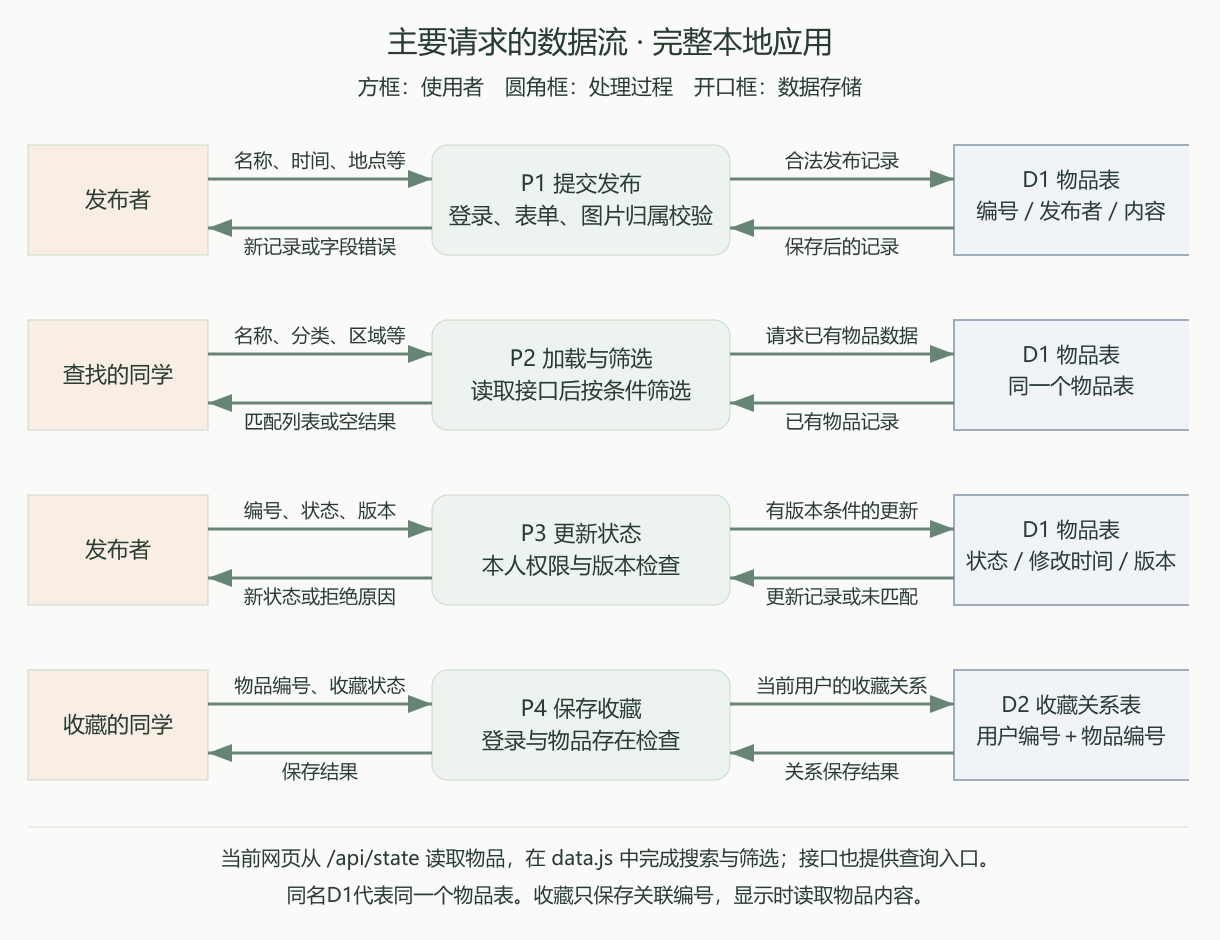
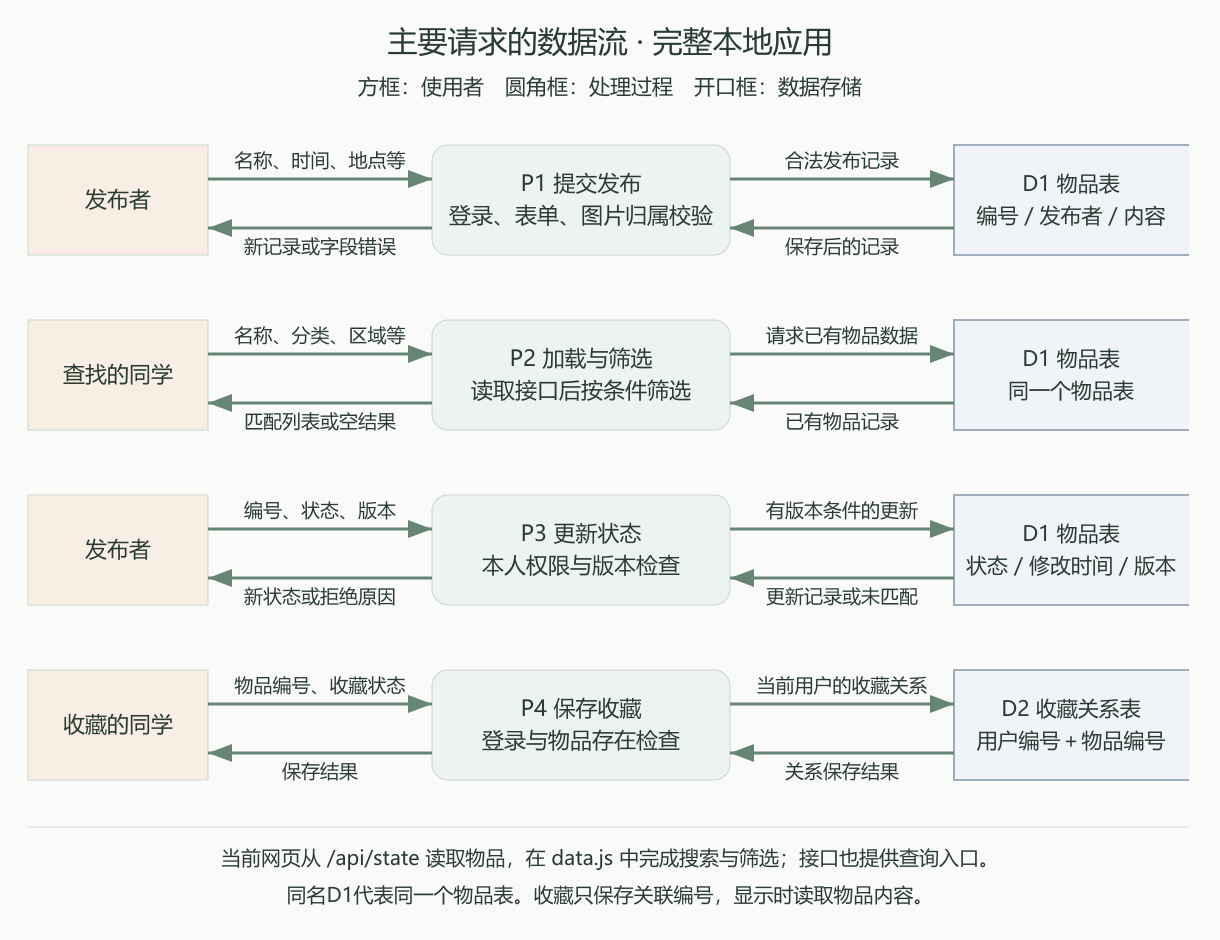
docs: explain prototype development and full application data flows

diff --git a/docs/2026-10-07-implementation-blog.md b/docs/2026-10-07-implementation-blog.md
@@ -76,17 +76,50 @@
 
 #### 从原型到页面
 
-我们保留了原型里的主要页面，把它们接成可以操作的流程。首页负责集中展示和搜索；发布页负责收集信息；详情页负责展示完整内容和联系方式；“我的”负责管理本人发布及收藏。
+**第一步：确定每条信息要保存什么。** 原型中有物品名称、图片、地点和时间，开发时需要先把这些内容变成数据字段。每条发布都有独立编号和发布者编号，类型分为寻物与招领，进度分为进行中与已完成。首页、详情、我的发布和收藏都根据同一条记录生成，避免几个页面各存一份内容，修改后互相对不上。
 
-实际做出来以后，页面又经过了几轮调整。首页最初提示文字较多，公告和卡片也偏大，后来缩短了卡片，把外露的筛选收为“寻物、招领、收藏”，其余放进漏斗按钮。丢失和拾取的时间放在卡片上，发布时间放在详情和“我的发布”里。这样找东西时先看到的是事情发生的时间。
+这里也调整了原型中的表达。丢失或拾取时间保存为事件时间，发布时间和修改时间另外记录，筛选按事件日期判断。寻物地点允许多选可能区域，并注明“模糊范围”；补充输入改为“最有可能的地点”。招领仍选择一个拾取区域，避免把不确定的丢失范围写成确定的拾取位置。
 
-界面采用暖棕色表示寻物、浅绿色表示招领，已完成的信息用灰蓝色区分，同时保留文字状态。底部导航在各个页面都可以使用。收藏、弹窗和按钮增加了点击反馈，减少操作后没有反应的感觉。
+**第二步：接通页面、数据和按钮。** `index.html`提供顶部栏、主内容区、底部导航和弹窗容器。`app.js`读取地址中的`#home`、`#detail/编号`等路径，确定当前页面，再由`views.js`生成界面。打开详情时按编号查找物品，进入编辑时回填原记录，“我的”按当前用户编号取本人发布。找不到记录时显示信息不存在，不继续渲染空数据。
+
+页面上的按钮使用`data-action`说明操作，交互统一交给`app.js`处理。业务判断则放在`data.js`，例如谁能修改、怎样筛选、完成后显示什么文字。底部导航放在主内容区之外，切换或重新渲染页面时仍然保留。
 
 <img src="blog-images/2026-10-07/01-overview.png" alt="首页、发布与我的页面" width="760">
 
-发布表单较长，下面按填写顺序分成三段：先选类型和分类，再写地点与时间，最后补联系方式、图片和描述。
+**第三步：让发布和修改真正保存下来。** 点击提交后先读取表单，对必填项、文字长度、分类、区域和日期进行校验。只有空格的名称也算未填写。出错时保留已经输入的内容，在字段旁说明原因，并将焦点移到第一个错误位置。通过校验后暂时禁用提交按钮，避免一次操作反复提交。
+
+最初的本地版本把记录保存进`localStorage`，保存成功后才跳到成功页。接入后端以后，如果选择了图片，先上传图片并取得地址，再提交发布信息；服务器再次校验，并根据登录会话填写发布者编号。数据库写入成功、接口返回新记录后，前端重新读取状态，再进入成功页。连接或保存失败时显示错误，保留表单供用户修改或重试。
+
+编辑沿用同一份表单，带上原记录版本提交。名称和地点可以修改，发布者、发布时间和原类型保留。完成、取消完成、删除各有确认弹窗，后端再次检查归属，避免只有前端隐藏按钮却仍能修改他人的信息。
+
+下面按填写顺序展示发布表单：先选类型和分类，再写地点与时间，最后补联系方式、图片和描述。
 
 <img src="blog-images/2026-10-07/03-publish.png" alt="发布表单的三个区域" width="760">
+
+**第四步：从一个浏览器的体验补到多账号应用。** 单独双击HTML适合验收页面，但不同用户无法共享浏览器中的记录。后端版本增加用户、会话、物品、收藏、图片归属和公告等数据库表，网页通过`api.js`发出请求。密码经过加盐哈希保存，登录后由会话确定用户；游客可以浏览，发布、收藏和查看联系方式需要登录。
+
+用户修改昵称或头像后，历史发布通过用户编号读取最新资料。公开主页根据该用户的发布计算总数、进行中和已完成数量，个人常用联系方式及收藏不公开。收藏保存用户与物品的对应关系，图片文件另存到上传目录，页面中的发布记录只保留图片地址。
+
+前端和后端共用`data.js`中的校验、筛选及状态规则。页面切换到首页、我的、详情等主要入口时重新取数据，窗口重新获得焦点时也会更新相关页面。当前没有实时推送，正在浏览的另一个页面不会立即收到状态变化。
+
+**第五步：根据实际操作反馈修改界面。** 首页最初提示较多，公告和卡片偏大，后来缩短了卡片，把外露筛选收为“寻物、招领、收藏”，其余放进漏斗按钮。展开筛选中的选择先保存在草稿里，点“应用筛选”才生效；应用后保持展开，内容可以滚动。重新显示结果时尽量保留筛选控件和滚动位置，减少跳动。
+
+卡片把名称、事件时间和地点放在更容易看到的位置，发布时间留在详情和我的发布中。寻物、招领和已完成使用不同底色，并保留文字状态。收藏成功后再改变爱心和边框，动画结束后清理临时效果；弹窗和按钮也增加轻量反馈。上传区域调整后出现过底栏消失，最终通过测量页面宽度找到隐藏控件撑宽页面的问题，具体修复放在第九节。
+
+**第六步：检查保存结果，而不只检查按钮能点。** 业务测试检查字段校验、筛选和状态变化；接口测试创建两个账号，检查权限、收藏隔离、旧版本提交和重启后数据保留；Chrome测试走带图片发布、另一账号查看、资料修改、完成及取消、编辑和删除。这样可以核对页面上的操作是否真正改变了保存的数据。测试方法和结果放在第七节。
+
+#### 当前完成到什么程度
+
+按本次本地交付的范围，核心流程和主要配套功能已经可以运行。这里列出对应能力和边界，作为验收依据：
+
+| 部分 | 已实现 | 当前边界 |
+| --- | --- | --- |
+| 失物招领 | 发布、查找、详情、联系方式、编辑、完成、取消完成和删除 | 双方在应用外联系，由发布者确认找回或归还 |
+| 用户与数据 | 注册登录、恢复码找回、资料修改、多账号权限、SQLite和图片保存 | 普通账号不等于学校身份认证 |
+| 收藏与公告 | 个人收藏、急寻申请、管理员审核、到期及完成后停止展示 | 需要管理员实际审核，预置内容用于演示流程 |
+| 交付与验证 | 静态HTML入口、本地后端入口、自动测试、管理员和手动备份脚本 | 没有公网部署，没有进行长期运营和大规模并发验证 |
+
+因此，当前版本可以作为可用的本地MVP交付。持续面向全校运行还需要真实使用反馈、更多数据量下的查询验证，以及备份恢复和旧图片清理等运行维护工作。当前首页从接口读取物品集合后在前端筛选，后端虽有分页查询接口，网页尚未接入分页；这一点在数据量增加后需要继续调整。
 
 ### 4.2 程序流程图与数据流图（10分）
 
@@ -107,11 +140,11 @@
 | 完成 | 发布者在“我的发布”确认 | 重新加载后显示已找到或已归还，卡片变为完成配色 |
 | 取消完成 | 发布者在同一位置再次确认 | 恢复寻找中或待认领，原内容保留 |
 
-这里把线下联系与系统状态更新分开：联系双方确认找回以后，仍需要发布者主动标记完成。列表没有做实时推送，因此其他页面需要重新加载才能读到最新状态。
+这里把线下联系与系统状态更新分开：联系双方确认找回以后，仍需要发布者主动标记完成。网页在切换主要页面或窗口重新获得焦点时会重新读取数据；列表没有实时推送，其他正在打开的页面需要再次取数据才能看到新状态。
 
 <img src="blog-images/2026-10-07/04-status.png" alt="我的发布、已完成筛选与取消归还确认" width="760">
 
-#### 数据流与存储
+#### 运行结构与数据存储
 
 前端使用HTML、CSS和JavaScript，后端使用Fastify，数据保存到SQLite，图片保存为本地文件。页面渲染、业务规则和接口访问分开写，修改界面时不需要把数据库操作也塞进页面代码。
 
@@ -124,11 +157,27 @@
 
 两种方式的数据分开保存。直接打开HTML时的数据不会自动导入数据库。首次启动后端会写入七条物品信息、三条公告和演示账号，方便打开后就能查看和操作；已有数据不会在每次重启时重新覆盖。
 
-下面再把完整本地应用的主要请求展开。箭头上写的是传递的数据，数据库中的记录则用物品编号和用户编号关联。
+上图说明两种运行方式及数据保存位置。下面的数据流图进一步展开“谁提交什么、系统怎样处理、读写哪里、返回什么”。业务读写和账号、资料、图片、公告两部分分图展示，避免所有箭头挤在一张图里。
+
+#### 发布、查询、状态和收藏的数据流
 
 当前网页先从`/api/state`取得物品，再在前端按名称、区域、分类和事件日期筛选；后端另有`/api/items`查询接口。图中的搜索过程包含加载与筛选两步，搜索条件不会修改原来的发布记录。
 
 <img src="blog-images/2026-10-07/request-data-flow.png" alt="发布、搜索、状态更新与收藏的数据流" width="760">
+
+编辑使用同样的归属和版本检查。删除发布后，数据库按关联编号清除收藏、公告和急寻申请。收藏只保存关系，展示时仍读取物品最新内容。
+
+#### 账号、资料、图片和公告的数据流
+
+<img src="blog-images/2026-10-07/support-data-flow.png" alt="账号会话、资料主页、图片上传和公告审核的数据流" width="760">
+
+账号流程先校验输入，再读写用户和会话。注册保存密码哈希，登录成功返回当前用户与会话；后续写操作继续检查会话和权限。资料修改写入用户表，公开主页读取允许展示的资料，并按发布者编号读取物品计算数量，收藏数不作为完成数。
+
+图片先经过内容解码、大小检查和WebP转换，再保存文件及归属记录，返回地址供发布或头像引用。图片上传与物品发布是两次请求，尚未做成一个事务：上传成功后如果发布失败，图片可能保留在目录中，旧图也暂时保留。这是后续需要增加清理机制的地方。
+
+急寻申请与正式公告分开保存。用户只能为本人进行中的寻物申请，管理员审核后写入公告并移除申请，批准这两步放在同一事务内。首页读取未到期且仍在寻找中的公告；完成或删除后停止展示。管理员可以撤下公告、驳回申请或删除内容。
+
+#### 数据之间怎样关联
 
 | 数据 | 关键字段与用途 |
 | --- | --- |
@@ -137,6 +186,17 @@
 | 修改记录 | `createdAt`保留发布时间，`updatedAt`记录修改；`version`检查是否拿旧信息提交 |
 | 收藏关系 | 用户编号与物品编号组成关系；展示时读取物品最新内容 |
 | 图片 | 发布记录保存图片地址，实际文件放在上传目录；上传和引用都检查归属 |
+
+| 数据表 | 保存内容 | 与其他数据的联系 |
+| --- | --- | --- |
+| `users`、`sessions` | 账号资料、密码及恢复码摘要、偏好、会话 | 会话关联用户；发布、收藏、图片以用户编号确定归属 |
+| `items` | 物品编号、发布者编号、内容、版本 | 发布者资料从用户表读取；完成数量从物品状态统计 |
+| `favorites` | 用户编号、物品编号 | 两个编号组成唯一关系；删除物品后级联删除 |
+| `uploads`与图片目录 | 图片编号、所属用户、大小和文件 | 物品及头像引用地址；当前删除发布不会清理已上传文件 |
+| `urgent_requests`、`notices` | 申请或公告所关联物品、酬谢；公告另存到期时间 | 关联原发布；审核批准时写公告并删除申请 |
+| `app_meta` | 演示初始化及资料迁移标记 | 防止重启时重复导入、覆盖已经修改的数据 |
+
+数据库和图片均在本地保存，关闭程序不会清除。演示初始化只在首次需要时执行；后续发布、收藏和修改直接写入现有数据。`server/backup.cjs`提供手动备份数据库和图片的命令，自动定时备份及恢复演练尚未完成。
 
 ### 4.3 关键代码及说明（5分）
 

diff --git a/docs/blog-publish-checklist.md b/docs/blog-publish-checklist.md
@@ -2,7 +2,7 @@
 
 正文：[程序实现博客](2026-10-07-implementation-blog.md)。图片在[配图目录](blog-images/2026-10-07/)，包括浏览器实际截图和流程图。
 
-正文使用7张PNG横向拼图，共21个页面视图，另有3张流程／数据流图和1张Git提交截图。特点部分集中展示收藏、紧急公告和颜色提示，其余细节合成一段。页面统一高度，按原比例缩小，不放大；标注加在图外，正文通过HTML的width限制展示宽度。目录中还保留筛选、个人设置等备用拼图及原始截图。
+正文使用7张PNG横向拼图，共21个页面视图，另有4张流程／结构／数据流图和1张Git提交截图。特点部分集中展示收藏、紧急公告和颜色提示，其余细节合成一段。页面统一高度，按原比例缩小，不放大；标注加在图外，正文通过HTML的width限制展示宽度。目录中还保留筛选、个人设置等备用拼图及原始截图。
 
 重新生成拼图：`node docs/blog-images/2026-10-07/render-collages.cjs`。脚本裁切、等比例缩小和拼接截图，输出PNG。原图本身的细节不会因为更改DPI数值而增加。
 
@@ -15,7 +15,7 @@
 | 队友、作业、项目等链接 | 2 | 第一节；发布后补本篇链接 |
 | 工作分工 | 1 | 第二节；填真实分工及协作记录 |
 | PSP | 5 | 第三节；填真实预估、实际耗时及差异原因 |
-| 实现说明、流程／数据流图、重要代码 | 20 | 第四节，开发选择、完整状态流程、三张图、权限与版本更新代码 |
+| 实现说明、流程／数据流图、重要代码 | 20 | 第四节，六步开发过程、交付范围、完整状态流程、运行结构及两张业务数据流图、权限与版本更新代码 |
 | 附加功能的目的、实现、代码及截图 | 10 | 第五节，重点为收藏、紧急公告栏、颜色提示 |
 | 目录和使用说明 | 5 | 第六节，两种运行方式分开写 |
 | 测试工具教程、代码、数据及白盒分析 | 10 | 第七节，Mocha操作教程、收藏和日期代码、10项单元＋9项集成＋7项页面测试、预期与结果对照 |
@@ -27,7 +27,7 @@
 
 1. 搜索正文所有“待补”和“发布后填写”，填真实记录后删除占位文字。
 2. 补队友fork、PR及互审记录；目前不能根据主账号提交推断已完成结对协作。
-3. 将正文引用的7张拼图、3张流程图与1张Git截图上传到博客园，替换HTML的src。保留HTML中的width属性。不要只粘贴Markdown后留下失效图片。
+3. 将正文引用的7张拼图、4张流程／结构／数据流图与1张Git截图上传到博客园，替换HTML的src。保留HTML中的width属性。不要只粘贴Markdown后留下失效图片。
 4. 用Chrome直接打开完整目录的`index.html`，人工走发布、搜索、详情、联系、完成及取消完成，再试空表单和无结果。完整后端的Chrome自动测试已经执行。
 5. 依据个人博客作者调整“队友博客”一栏，发表后补本篇URL，再提交到课程作业页。
 6. 核对班级群结对表和项目地址，不能用博客中的成员表代替登记。
